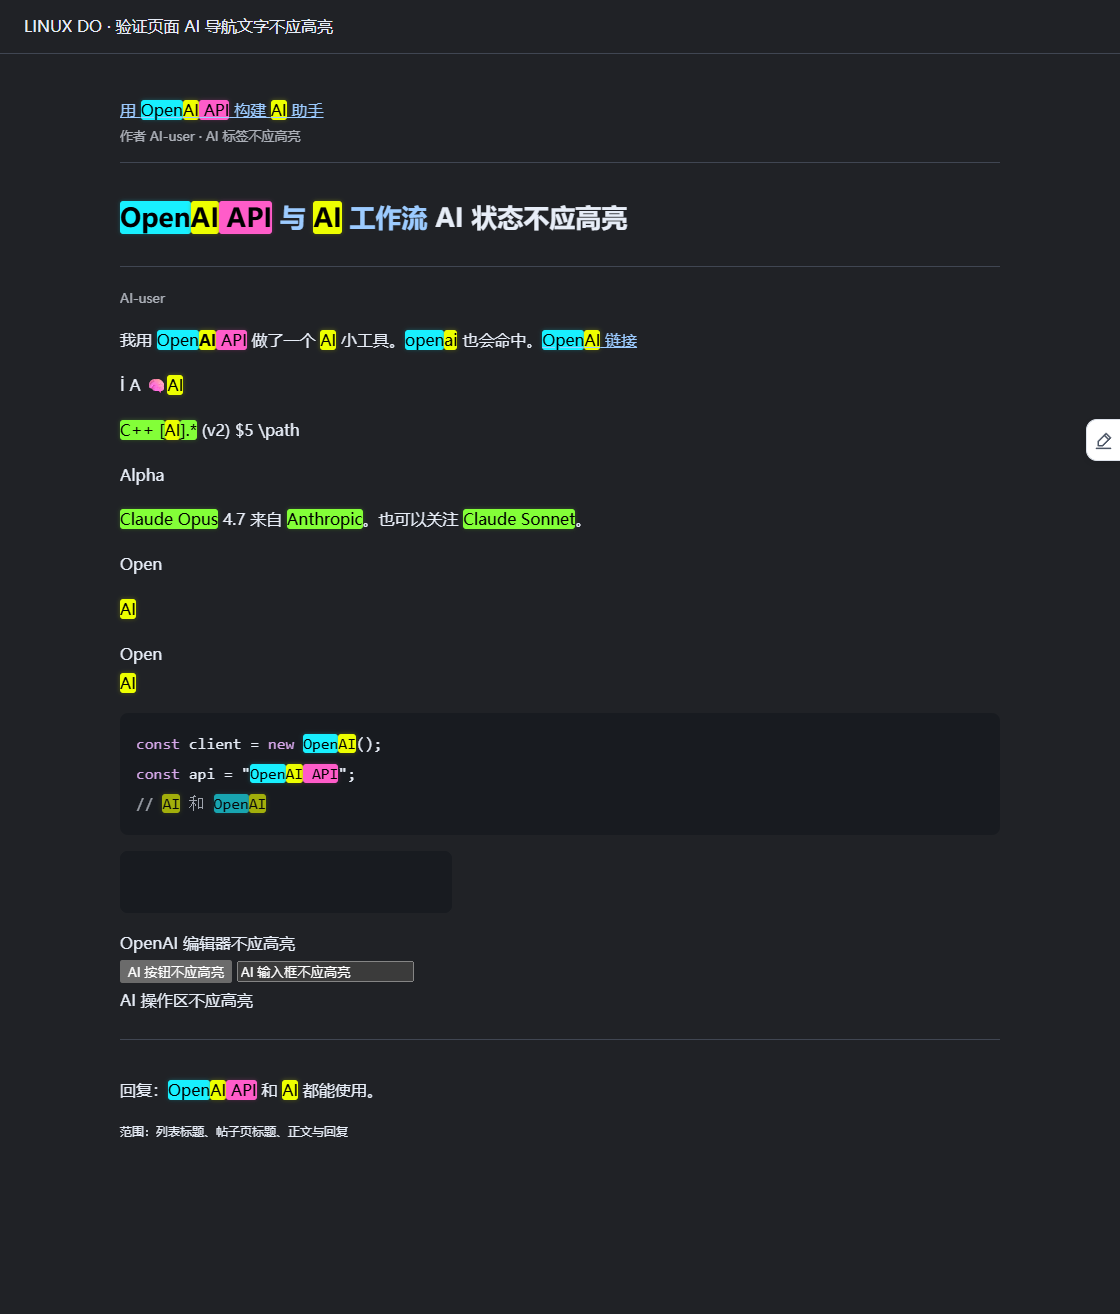
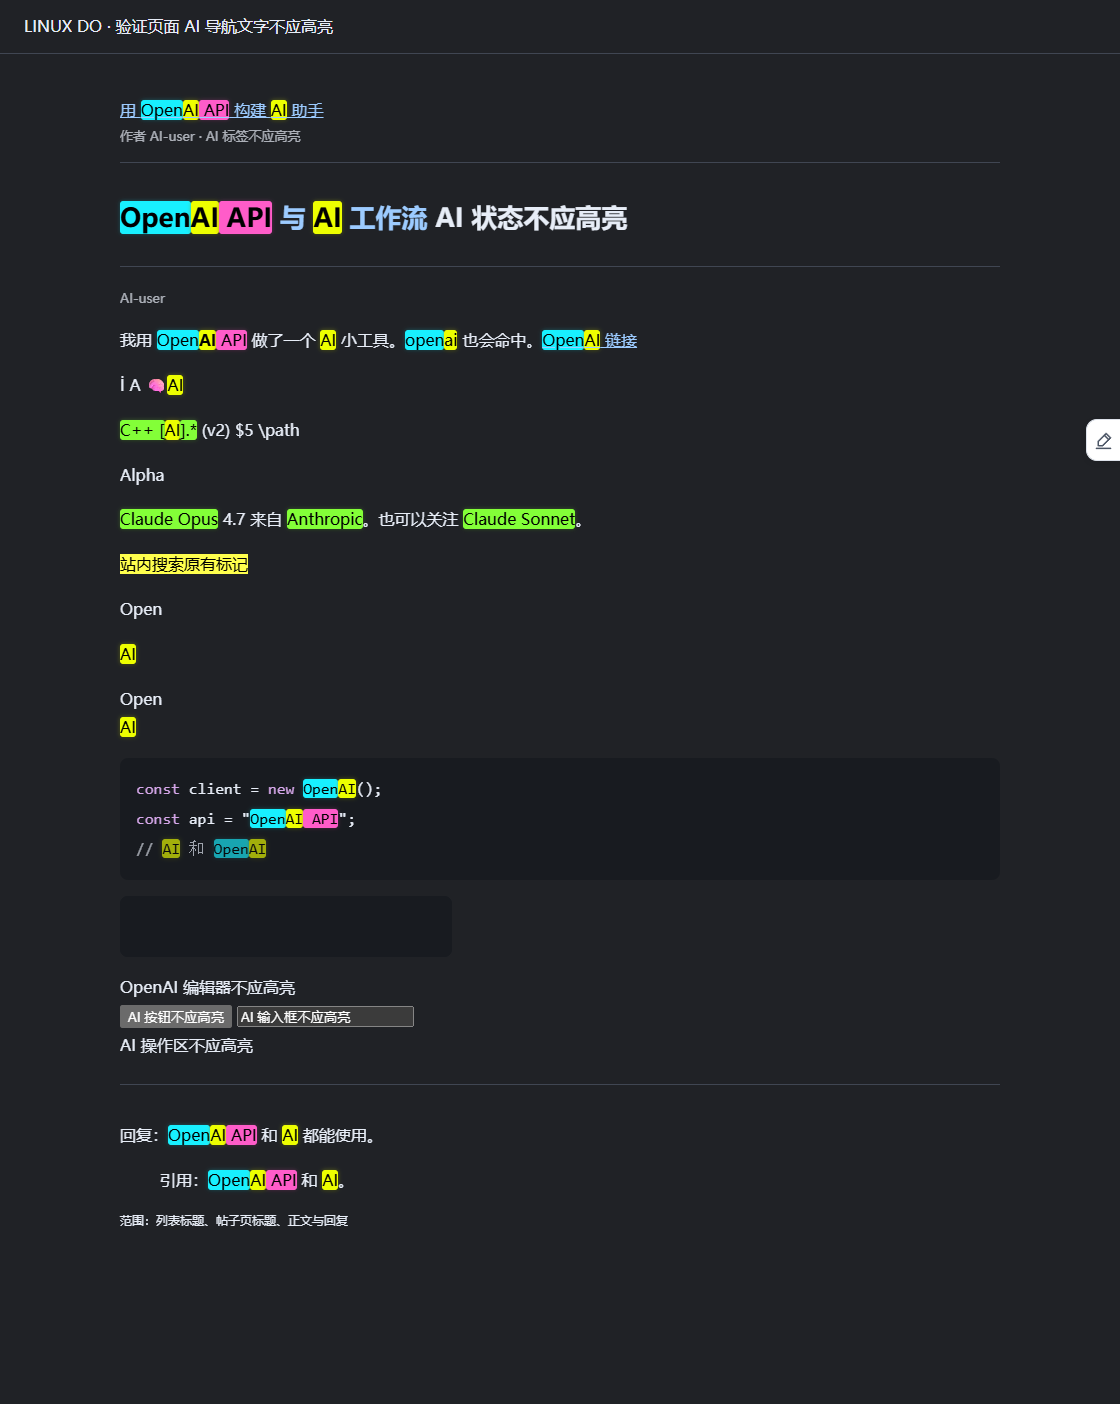
fix: isolate highlights from Discourse mark styles

diff --git a/tests/fixture.html b/tests/fixture.html
@@ -4,7 +4,7 @@
 <meta name="viewport" content="width=device-width, initial-scale=1">
 <title>Linux.do 关键词高亮验证</title>
 <style>
-  :root { color-scheme: light dark; }
+  :root { color-scheme: light dark; --highlight: #ffff4d; }
   body { margin: 0; font: 16px/1.8 system-ui, "Microsoft YaHei", sans-serif; background: light-dark(#fff, #202226); color: light-dark(#222831, #e7edf7); }
   header { position: sticky; top: 0; z-index: 10; padding: 12px 24px; border-bottom: 1px solid light-dark(#dde3eb, #404652); background: light-dark(#fff, #202226); }
   main { max-width: 880px; margin: 0 auto; padding: 28px 52px 160px; }
@@ -43,6 +43,7 @@
         <p id="literal">C++ [AI].* (v2) $5 \path</p>
         <p id="dynamic">Alpha</p>
         <p id="group-example">Claude Opus 4.7 来自 Anthropic。也可以关注 Claude Sonnet。</p>
+        <p><mark id="native-search-mark">站内搜索原有标记</mark></p>
         <p id="paragraph-a">Open</p><p id="paragraph-b">AI</p>
         <p id="linebreak">Open<br>AI</p>
         <pre id="code-block"><code><span class="syntax">const</span> client = <span class="syntax">new</span> Open<span class="syntax">AI</span>();
@@ -55,7 +56,7 @@
       </div>
       <div class="post-controls">AI 操作区不应高亮</div>
     </div></article>
-    <article id="post_2"><div class="topic-body"><div class="cooked" id="body-two"><p>回复：OpenAI API 和 AI 都能使用。</p></div></div></article>
+    <article id="post_2"><div class="topic-body"><div class="cooked" id="body-two"><p>回复：OpenAI API 和 AI 都能使用。</p><blockquote id="quoted-reply">引用：OpenAI API 和 AI。</blockquote></div></div></article>
   </section>
   <p id="scope-status">范围：列表标题、帖子页标题、正文与回复</p>
 </main>

diff --git a/linuxdo-keyword-highlighter.user.js b/linuxdo-keyword-highlighter.user.js
@@ -1,7 +1,7 @@
 // ==UserScript==
 // @name         Linux.do 荧光关键词高亮
 // @namespace    linuxdo-keyword-highlighter
-// @version      1.2.1
+// @version      1.2.2
 // @description  关键词分组、分区高亮、圆角荧光背景与阴影、短词覆盖长词、可拖动或贴边的设置入口。
 // @match        https://linux.do/*
 // @run-at       document-idle
@@ -364,8 +364,8 @@
     // Scrolling and line wrapping are handled by layout, without a second geometry layer.
     css.textContent = `
       ldkh-text[data-ldkh-owned="text"] { display: contents; }
-      mark[data-ldkh-rule] {
-        font: inherit; line-height: inherit; margin: 0; padding: 0; border: 0;
+      ldkh-highlight[data-ldkh-rule] {
+        display: inline; font: inherit; line-height: inherit; margin: 0; padding: 0; border: 0;
         color: var(--ldkh-text); background: var(--ldkh-color); border-radius: 3px;
         box-shadow: 0 1px 3px rgb(0 0 0 / 22%), 0 0 4px color-mix(in srgb, var(--ldkh-color) 30%, transparent);
         -webkit-box-decoration-break: clone; box-decoration-break: clone;
@@ -418,7 +418,8 @@
       }
       for (const segment of segments) {
         appendText(text.slice(offset, segment.start), host);
-        const mark = createElement('mark');
+        // Discourse gives every native <mark> in .cooked its search highlight color.
+        const mark = createElement('ldkh-highlight');
         record.generated.add(mark);
         mark.dataset.ldkhRule = segment.ruleId;
         const color = colors.get(segment.ruleId);

diff --git a/README.md b/README.md
@@ -72,8 +72,8 @@ npm run test:live
 
 它只读取公开页面，不登录或发帖。结果和截图保存在 `test-results/`，失败时也会留下页面状态。
 
-当前 15 项单元测试、语法检查和 Chrome / Edge 交互测试已通过，包含荧光预设、自定义颜色、弹窗开关、分组设置、旧配置迁移和滚动中的绘制检查。真实 Linux.do 页面的区域结构已核对；线上自动化高亮检查仍被 Cloudflare 403 验证页拦住。1.2 的真实 Tampermonkey 更新安装与存储尚未完成验证。
+当前 15 项单元测试、语法检查和 Chrome / Edge 交互测试已通过，包含帖子主题样式加载后的多色高亮、荧光预设、自定义颜色、弹窗开关、分组设置、旧配置迁移和滚动中的绘制检查。真实 Linux.do 页面的区域结构已核对；线上自动化高亮检查仍被 Cloudflare 403 验证页拦住。1.2 的真实 Tampermonkey 更新安装与存储尚未完成验证。
 
-高亮用内联 `<mark>` 绘制，圆角、底色和阴影属于同一个文字片段，不需要滚动时重新计算悬浮层坐标。匹配会跨越行内标签，保留链接和代码元素；撤销高亮时恢复原文字节点，网站更新绑定文字时也会重新匹配。设置菜单使用浏览器原生 Popover，需要较新的 Chrome / Edge。
+高亮用脚本专用的内联 `<ldkh-highlight>` 绘制，避开帖子页给原生 `<mark>` 统一设置搜索底色的样式。圆角、底色和阴影属于同一个文字片段，不需要滚动时重新计算悬浮层坐标。匹配会跨越行内标签，保留链接和代码元素；撤销高亮时恢复原文字节点，网站更新绑定文字时也会重新匹配。设置菜单使用浏览器原生 Popover，需要较新的 Chrome / Edge。
 
 遇到问题可以提 [Issue](https://github.com/kai-wei-kfuse/linuxdo-keyword-highlighter/issues)，带上浏览器和 Tampermonkey 版本、复现步骤，以及方便的话一张截图。
